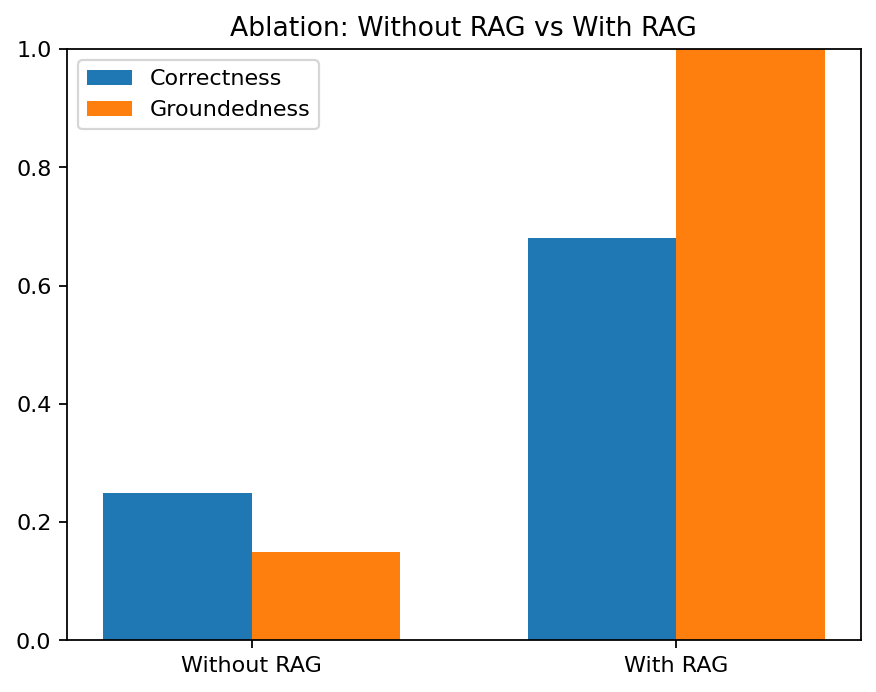
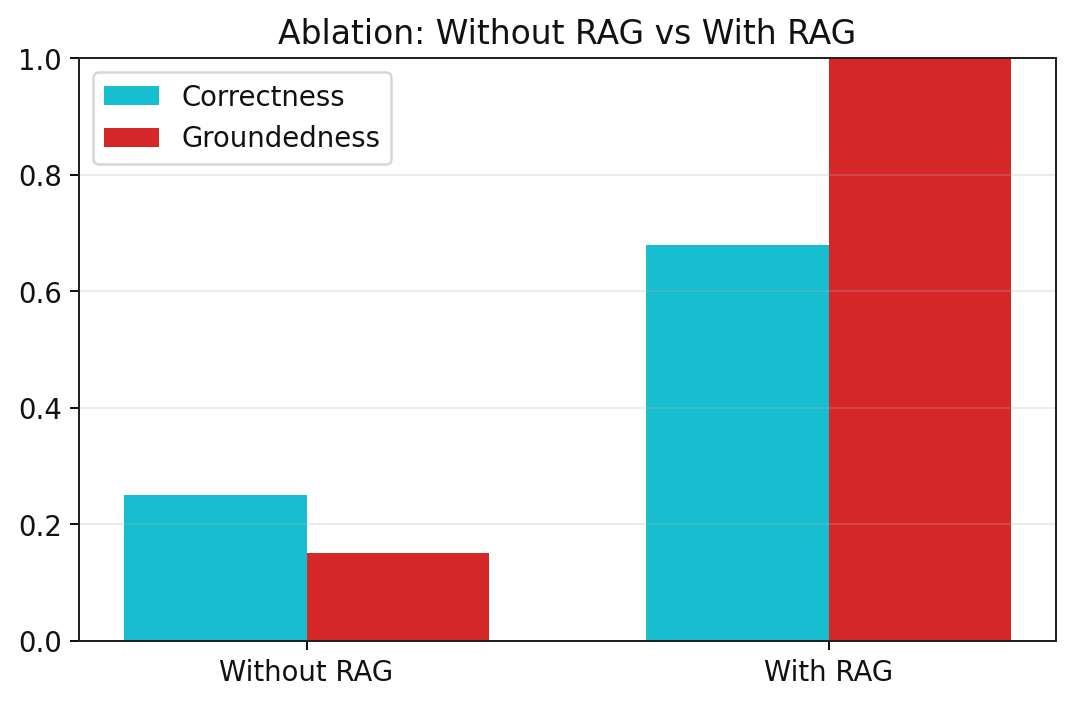
feat: iteration4 with results for RAG fix: plotting groundness

diff --git a/scripts/plot_metrics.py b/scripts/plot_metrics.py
@@ -9,12 +9,34 @@ def _require_matplotlib():
     try:
         import matplotlib.pyplot as plt
     except Exception as exc:  # pragma: no cover
-        raise SystemExit("matplotlib is required for plotting. Install with: pip install matplotlib") from exc
+        raise SystemExit("matplotlib is required for plotting. Install with: uv add matplotlib") from exc
     return plt
 
 
 def _load_json(path: str) -> dict:
     return json.loads(Path(path).read_text(encoding="utf-8"))
+
+
+def _setup_style(plt):
+    plt.style.use("default")
+    plt.rcParams.update(
+        {
+            "figure.facecolor": "white",
+            "axes.facecolor": "white",
+            "axes.edgecolor": "#222222",
+            "axes.labelcolor": "#111111",
+            "xtick.color": "#111111",
+            "ytick.color": "#111111",
+            "text.color": "#111111",
+            "savefig.facecolor": "white",
+            "savefig.edgecolor": "white",
+            "font.size": 11,
+        }
+    )
+
+
+def _save(fig, path: Path) -> None:
+    fig.savefig(path, bbox_inches="tight", dpi=180, facecolor="white")
 
 
 def main() -> None:
@@ -24,51 +46,67 @@ def main() -> None:
     args = parser.parse_args()
 
     plt = _require_matplotlib()
+    _setup_style(plt)
+
     metrics = _load_json(args.metrics)
     outdir = Path(args.outdir)
     outdir.mkdir(parents=True, exist_ok=True)
 
-    # Precision@k curve
     ks = [1, 3, 5, 10]
+
+    # Precision@k curve
     p_vals = [metrics.get("retrieval", {}).get(f"P@{k}", 0.0) for k in ks]
-    plt.figure()
-    plt.plot(ks, p_vals, marker="o")
-    plt.title("Precision@k vs k")
-    plt.xlabel("k")
-    plt.ylabel("Precision@k")
-    plt.grid(True, alpha=0.3)
-    plt.savefig(outdir / "precision_at_k.png", bbox_inches="tight", dpi=160)
-    plt.close()
+    fig, ax = plt.subplots(figsize=(7, 4.2))
+    ax.plot(ks, p_vals, marker="o", color="#1f77b4", linewidth=2)
+    ax.set_title("Precision@k vs k")
+    ax.set_xlabel("k")
+    ax.set_ylabel("Precision@k")
+    ax.set_ylim(0, 1)
+    ax.grid(True, alpha=0.3)
+    _save(fig, outdir / "precision_at_k.png")
+    plt.close(fig)
 
     # nDCG@k bars
     ndcg_vals = [metrics.get("retrieval", {}).get(f"nDCG@{k}", 0.0) for k in ks]
-    plt.figure()
-    plt.bar([str(k) for k in ks], ndcg_vals)
-    plt.title("nDCG@k")
-    plt.xlabel("k")
-    plt.ylabel("nDCG@k")
-    plt.savefig(outdir / "ndcg_at_k.png", bbox_inches="tight", dpi=160)
-    plt.close()
+    fig, ax = plt.subplots(figsize=(7, 4.2))
+    bars = ax.bar([str(k) for k in ks], ndcg_vals, color="#2ca02c")
+    ax.set_title("nDCG@k")
+    ax.set_xlabel("k")
+    ax.set_ylabel("nDCG@k")
+    ax.set_ylim(0, 1)
+    for b, v in zip(bars, ndcg_vals):
+        ax.text(b.get_x() + b.get_width() / 2, v + 0.02, f"{v:.2f}", ha="center", va="bottom", fontsize=9)
+    _save(fig, outdir / "ndcg_at_k.png")
+    plt.close(fig)
 
     # Top-k accuracy bars
     t_vals = [metrics.get("generation", {}).get(f"Top-{k} Accuracy", 0.0) for k in ks]
-    plt.figure()
-    plt.bar([str(k) for k in ks], t_vals)
-    plt.title("Top-k Accuracy")
-    plt.xlabel("k")
-    plt.ylabel("Accuracy")
-    plt.savefig(outdir / "top_k_accuracy.png", bbox_inches="tight", dpi=160)
-    plt.close()
+    fig, ax = plt.subplots(figsize=(7, 4.2))
+    bars = ax.bar([str(k) for k in ks], t_vals, color="#ff7f0e")
+    ax.set_title("Top-k Accuracy")
+    ax.set_xlabel("k")
+    ax.set_ylabel("Accuracy")
+    ax.set_ylim(0, 1)
+    for b, v in zip(bars, t_vals):
+        ax.text(b.get_x() + b.get_width() / 2, v + 0.02, f"{v:.2f}", ha="center", va="bottom", fontsize=9)
+    _save(fig, outdir / "top_k_accuracy.png")
+    plt.close(fig)
 
-    # Groundedness histogram
+    # Groundedness histogram (handles missing groundedness_scores)
     grounded_scores = metrics.get("generation", {}).get("groundedness_scores", [])
-    plt.figure()
-    plt.hist(grounded_scores, bins=10)
-    plt.title("Groundedness Score Distribution")
-    plt.xlabel("Score")
-    plt.ylabel("Count")
-    plt.savefig(outdir / "groundedness_hist.png", bbox_inches="tight", dpi=160)
-    plt.close()
+    if not grounded_scores:
+        mean_g = metrics.get("generation", {}).get("mean_groundedness")
+        grounded_scores = [float(mean_g)] if isinstance(mean_g, (int, float)) else [0.0]
+
+    fig, ax = plt.subplots(figsize=(7, 4.2))
+    ax.hist(grounded_scores, bins=max(5, min(10, len(grounded_scores))), color="#9467bd", edgecolor="#222222")
+    ax.set_title("Groundedness Score Distribution")
+    ax.set_xlabel("Score")
+    ax.set_ylabel("Count")
+    ax.set_xlim(0, 1)
+    ax.grid(True, axis="y", alpha=0.25)
+    _save(fig, outdir / "groundedness_hist.png")
+    plt.close(fig)
 
     # Ablation: without RAG vs with RAG
     ablation = metrics.get("ablation", {})
@@ -76,17 +114,19 @@ def main() -> None:
     correctness = [ablation.get("without_rag_correctness", 0.0), ablation.get("with_rag_correctness", 0.0)]
     grounded = [ablation.get("without_rag_groundedness", 0.0), ablation.get("with_rag_groundedness", 0.0)]
 
-    x = range(2)
+    x = list(range(2))
     width = 0.35
-    plt.figure()
-    plt.bar([i - width / 2 for i in x], correctness, width=width, label="Correctness")
-    plt.bar([i + width / 2 for i in x], grounded, width=width, label="Groundedness")
-    plt.xticks(list(x), labels)
-    plt.ylim(0, 1)
-    plt.title("Ablation: Without RAG vs With RAG")
-    plt.legend()
-    plt.savefig(outdir / "ablation_rag.png", bbox_inches="tight", dpi=160)
-    plt.close()
+    fig, ax = plt.subplots(figsize=(7, 4.2))
+    ax.bar([i - width / 2 for i in x], correctness, width=width, label="Correctness", color="#17becf")
+    ax.bar([i + width / 2 for i in x], grounded, width=width, label="Groundedness", color="#d62728")
+    ax.set_xticks(x)
+    ax.set_xticklabels(labels)
+    ax.set_ylim(0, 1)
+    ax.set_title("Ablation: Without RAG vs With RAG")
+    ax.legend()
+    ax.grid(True, axis="y", alpha=0.25)
+    _save(fig, outdir / "ablation_rag.png")
+    plt.close(fig)
 
     print(f"Saved plots to: {outdir}")
 

diff --git a/scripts/plot_metrics_v2.py b/scripts/plot_metrics_v2.py
@@ -1,0 +1,135 @@
+from __future__ import annotations
+
+import argparse
+import json
+from pathlib import Path
+
+
+def _require_matplotlib():
+    try:
+        import matplotlib.pyplot as plt
+    except Exception as exc:  # pragma: no cover
+        raise SystemExit("matplotlib is required for plotting. Install with: uv add matplotlib") from exc
+    return plt
+
+
+def _load_json(path: str) -> dict:
+    return json.loads(Path(path).read_text(encoding="utf-8"))
+
+
+def _setup_style(plt):
+    plt.style.use("default")
+    plt.rcParams.update(
+        {
+            "figure.facecolor": "white",
+            "axes.facecolor": "white",
+            "axes.edgecolor": "#222222",
+            "axes.labelcolor": "#111111",
+            "xtick.color": "#111111",
+            "ytick.color": "#111111",
+            "text.color": "#111111",
+            "savefig.facecolor": "white",
+            "savefig.edgecolor": "white",
+            "font.size": 11,
+        }
+    )
+
+
+def _save(fig, path: Path) -> None:
+    fig.savefig(path, bbox_inches="tight", dpi=180, facecolor="white")
+
+
+def main() -> None:
+    parser = argparse.ArgumentParser(description="Plot benchmark metrics for Drugenix MVP.")
+    parser.add_argument("--metrics", required=True, help="Path to metrics JSON.")
+    parser.add_argument("--outdir", default="plots", help="Output directory for PNG plots.")
+    args = parser.parse_args()
+
+    plt = _require_matplotlib()
+    _setup_style(plt)
+
+    metrics = _load_json(args.metrics)
+    outdir = Path(args.outdir)
+    outdir.mkdir(parents=True, exist_ok=True)
+
+    ks = [1, 3, 5, 10]
+
+    # Precision@k curve
+    p_vals = [metrics.get("retrieval", {}).get(f"P@{k}", 0.0) for k in ks]
+    fig, ax = plt.subplots(figsize=(7, 4.2))
+    ax.plot(ks, p_vals, marker="o", color="#1f77b4", linewidth=2)
+    ax.set_title("Precision@k vs k")
+    ax.set_xlabel("k")
+    ax.set_ylabel("Precision@k")
+    ax.set_ylim(0, 1)
+    ax.grid(True, alpha=0.3)
+    _save(fig, outdir / "precision_at_k.png")
+    plt.close(fig)
+
+    # nDCG@k bars
+    ndcg_vals = [metrics.get("retrieval", {}).get(f"nDCG@{k}", 0.0) for k in ks]
+    fig, ax = plt.subplots(figsize=(7, 4.2))
+    bars = ax.bar([str(k) for k in ks], ndcg_vals, color="#2ca02c")
+    ax.set_title("nDCG@k")
+    ax.set_xlabel("k")
+    ax.set_ylabel("nDCG@k")
+    ax.set_ylim(0, 1)
+    for b, v in zip(bars, ndcg_vals):
+        ax.text(b.get_x() + b.get_width() / 2, v + 0.02, f"{v:.2f}", ha="center", va="bottom", fontsize=9)
+    _save(fig, outdir / "ndcg_at_k.png")
+    plt.close(fig)
+
+    # Top-k accuracy bars
+    t_vals = [metrics.get("generation", {}).get(f"Top-{k} Accuracy", 0.0) for k in ks]
+    fig, ax = plt.subplots(figsize=(7, 4.2))
+    bars = ax.bar([str(k) for k in ks], t_vals, color="#ff7f0e")
+    ax.set_title("Top-k Accuracy")
+    ax.set_xlabel("k")
+    ax.set_ylabel("Accuracy")
+    ax.set_ylim(0, 1)
+    for b, v in zip(bars, t_vals):
+        ax.text(b.get_x() + b.get_width() / 2, v + 0.02, f"{v:.2f}", ha="center", va="bottom", fontsize=9)
+    _save(fig, outdir / "top_k_accuracy.png")
+    plt.close(fig)
+
+    # Groundedness histogram (handles missing groundedness_scores)
+    grounded_scores = metrics.get("generation", {}).get("groundedness_scores", [])
+    if not grounded_scores:
+        mean_g = metrics.get("generation", {}).get("mean_groundedness")
+        grounded_scores = [float(mean_g)] if isinstance(mean_g, (int, float)) else [0.0]
+
+    fig, ax = plt.subplots(figsize=(7, 4.2))
+    ax.hist(grounded_scores, bins=max(5, min(10, len(grounded_scores))), color="#9467bd", edgecolor="#222222")
+    ax.set_title("Groundedness Score Distribution")
+    ax.set_xlabel("Score")
+    ax.set_ylabel("Count")
+    ax.set_xlim(0, 1)
+    ax.grid(True, axis="y", alpha=0.25)
+    _save(fig, outdir / "groundedness_hist.png")
+    plt.close(fig)
+
+    # Ablation: without RAG vs with RAG
+    ablation = metrics.get("ablation", {})
+    labels = ["Without RAG", "With RAG"]
+    correctness = [ablation.get("without_rag_correctness", 0.0), ablation.get("with_rag_correctness", 0.0)]
+    grounded = [ablation.get("without_rag_groundedness", 0.0), ablation.get("with_rag_groundedness", 0.0)]
+
+    x = list(range(2))
+    width = 0.35
+    fig, ax = plt.subplots(figsize=(7, 4.2))
+    ax.bar([i - width / 2 for i in x], correctness, width=width, label="Correctness", color="#17becf")
+    ax.bar([i + width / 2 for i in x], grounded, width=width, label="Groundedness", color="#d62728")
+    ax.set_xticks(x)
+    ax.set_xticklabels(labels)
+    ax.set_ylim(0, 1)
+    ax.set_title("Ablation: Without RAG vs With RAG")
+    ax.legend()
+    ax.grid(True, axis="y", alpha=0.25)
+    _save(fig, outdir / "ablation_rag.png")
+    plt.close(fig)
+
+    print(f"Saved plots to: {outdir}")
+
+
+if __name__ == "__main__":
+    main()
